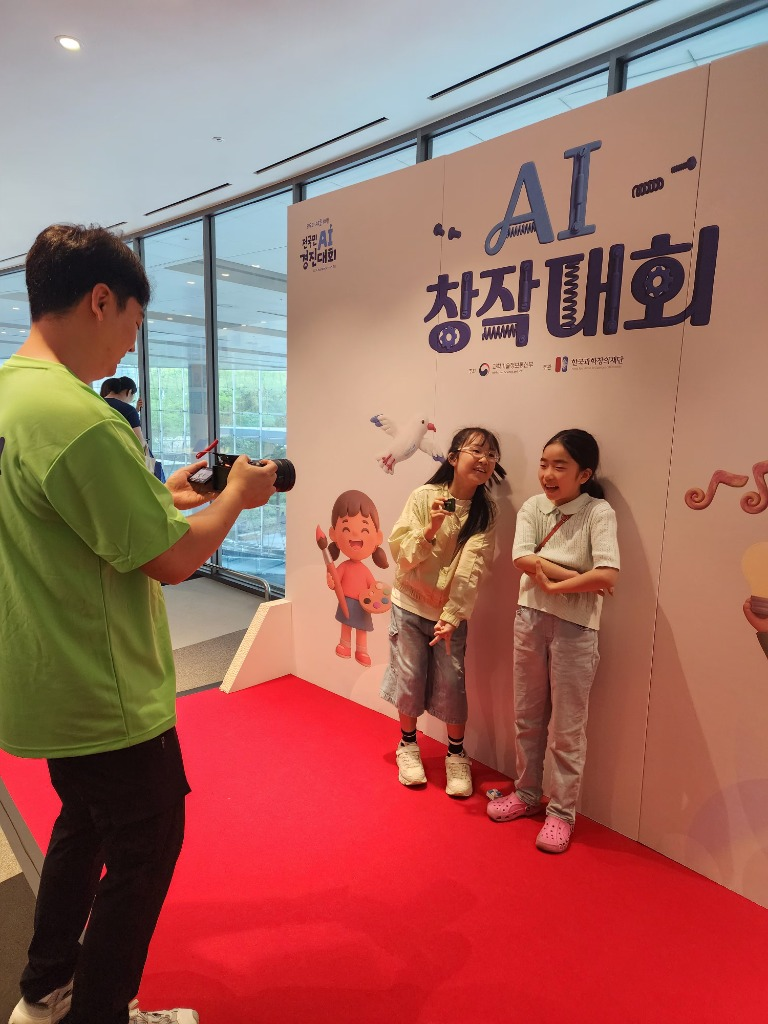
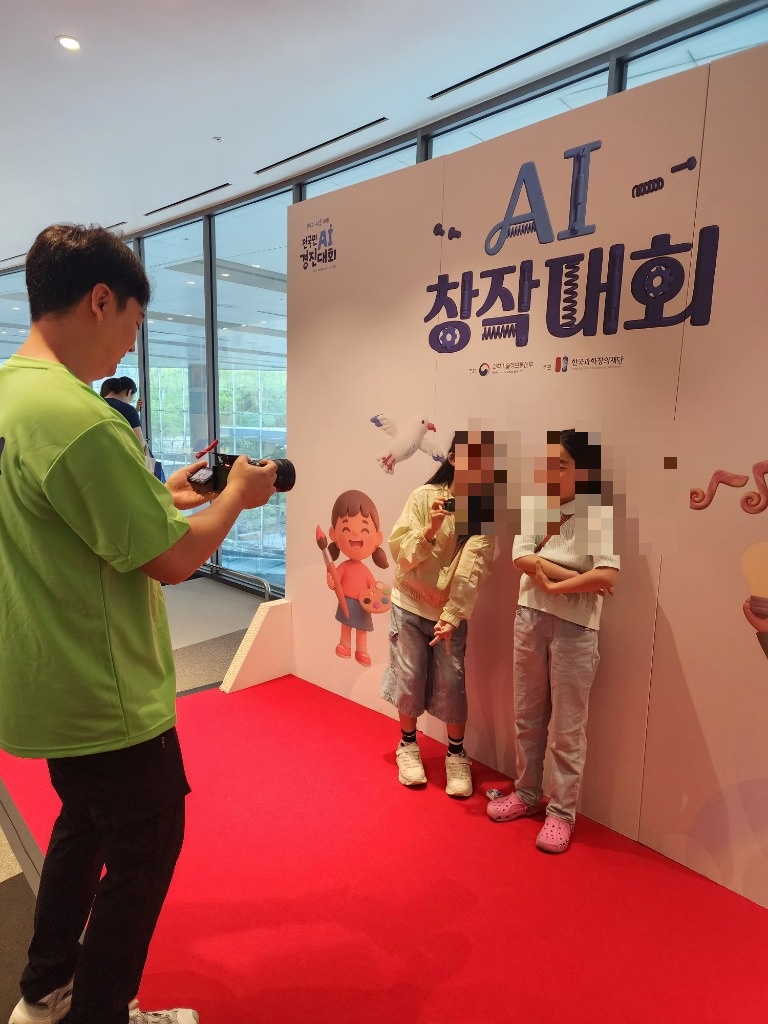
fix book cover images and mosaic children faces with school name anonymized

Changed region(s): [[0.5938, 0.4062, 0.8125, 0.5625], [0.8438, 0.4375, 0.875, 0.4688]]

diff --git a/index.html b/index.html
@@ -566,7 +566,7 @@
                 </a>
                 <a href="https://product.kyobobook.co.kr/detail/S000219787923" target="_blank" rel="noopener" class="portfolio-book-card">
                   <div class="book-cover-mock">
-                    <img src="https://contents.kyobobook.co.kr/pmbs/class-images/book/21978/S000219787923.jpg" alt="교보문고 단독 출간 도서">
+                    <img src="book_kyobo.jpg" alt="교보문고 단독 출간 도서">
                   </div>
                   <div class="book-info">
                     <span class="book-store">교보문고</span>
@@ -575,8 +575,8 @@
                   </div>
                 </a>
                 <a href="https://www.ypbooks.co.kr/search/total?word=%EB%82%B4%EB%94%B8+%ED%83%9F%ED%92%8D%EC%95%84" target="_blank" rel="noopener" class="portfolio-book-card">
-                  <div class="book-cover-mock" style="background: linear-gradient(135deg, #FFE5E0, #FFD1C9); font-size: 1.8rem; display: flex; align-items: center; justify-content: center;">
-                    📖
+                  <div class="book-cover-mock">
+                    <img src="book_taepung.jpg" alt="내 딸, 태풍아 (태풍 출판사)">
                   </div>
                   <div class="book-info">
                     <span class="book-store">영풍문고 / 태풍 출판사</span>
@@ -664,8 +664,8 @@
                   <span class="image-caption">전국 AI 창작대회 본선 대회장</span>
                 </div>
                 <div class="activity-image-wrapper">
-                  <img src="ai_school_team.jpg" alt="인천 검단초등학교 AI 창작동요대회 참가 기념촬영">
-                  <span class="image-caption">인천 검단초등학교 참가팀 단체촬영</span>
+                  <img src="ai_school_team.jpg" alt="인천 00 초등학교 AI 창작동요대회 참가 기념촬영">
+                  <span class="image-caption">인천 00 초등학교 참가팀 단체촬영</span>
                 </div>
                 <div class="activity-image-wrapper">
                   <img src="ai_competition_kids.jpg" alt="AI 창작대회 현장 참여 및 포토존">
